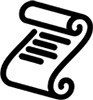
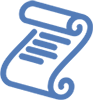
minor changes

diff --git a/src/components/Introduction.js b/src/components/Introduction.js
@@ -26,7 +26,9 @@ export default function Introduction({isActiveGame, showHowToCallback, startCall
                 <br />
                 <p>The game based a <a href="https://www.angelfire.com/games2/warpspawn/Cortez.html" target="_blank" rel="noreferrer">solo card game</a>.</p>
                 <p>Programmed by Zsolt Csernai<br />
-                    csernai.zsolt at gmail.com</p>
+                    csernai.zsolt at gmail.com<br/>
+                    <a href="https://github.com/cserzs/conquistador" target="_blank" rel="noreferrer">Source</a>
+                </p>
                 <p className="credits"><b>Credits</b><br/>
                     Scroll image by stefano corradetti from the <a href="https://thenounproject.com/" target="_blank" rel="noreferrer">Noun Project</a><br/>
                     Help image from <a href="https://game-icons.net/" target="_blank" rel="noreferrer">game-icon.net</a>.<br/>

diff --git a/public/index.html b/public/index.html
@@ -7,7 +7,7 @@
     <meta name="theme-color" content="#000000" />
     <meta
       name="description"
-      content="Web site created using create-react-app"
+      content="Conquistador, solo card game"
     />
     <link rel="apple-touch-icon" href="%PUBLIC_URL%/logo192.png" />
     <!--
@@ -29,15 +29,5 @@
   <body>
     <noscript>You need to enable JavaScript to run this app.</noscript>
     <div id="root"></div>
-    <!--
-      This HTML file is a template.
-      If you open it directly in the browser, you will see an empty page.
-
-      You can add webfonts, meta tags, or analytics to this file.
-      The build step will place the bundled scripts into the <body> tag.
-
-      To begin the development, run `npm start` or `yarn start`.
-      To create a production bundle, use `npm run build` or `yarn build`.
-    -->
   </body>
 </html>

diff --git a/src/App.js b/src/App.js
@@ -12,8 +12,8 @@ import Introduction from './components/Introduction';
 import HowToPlay from './components/howtoplay';
 import FlashMessages from './components/Flashmessages';
 
-import imgMenu from './static/scroll2.png';
-import imgHelp from './static/help2.png';
+import imgMenu from './static/scroll.png';
+import imgHelp from './static/help.png';
 
 import './App.css';
 
